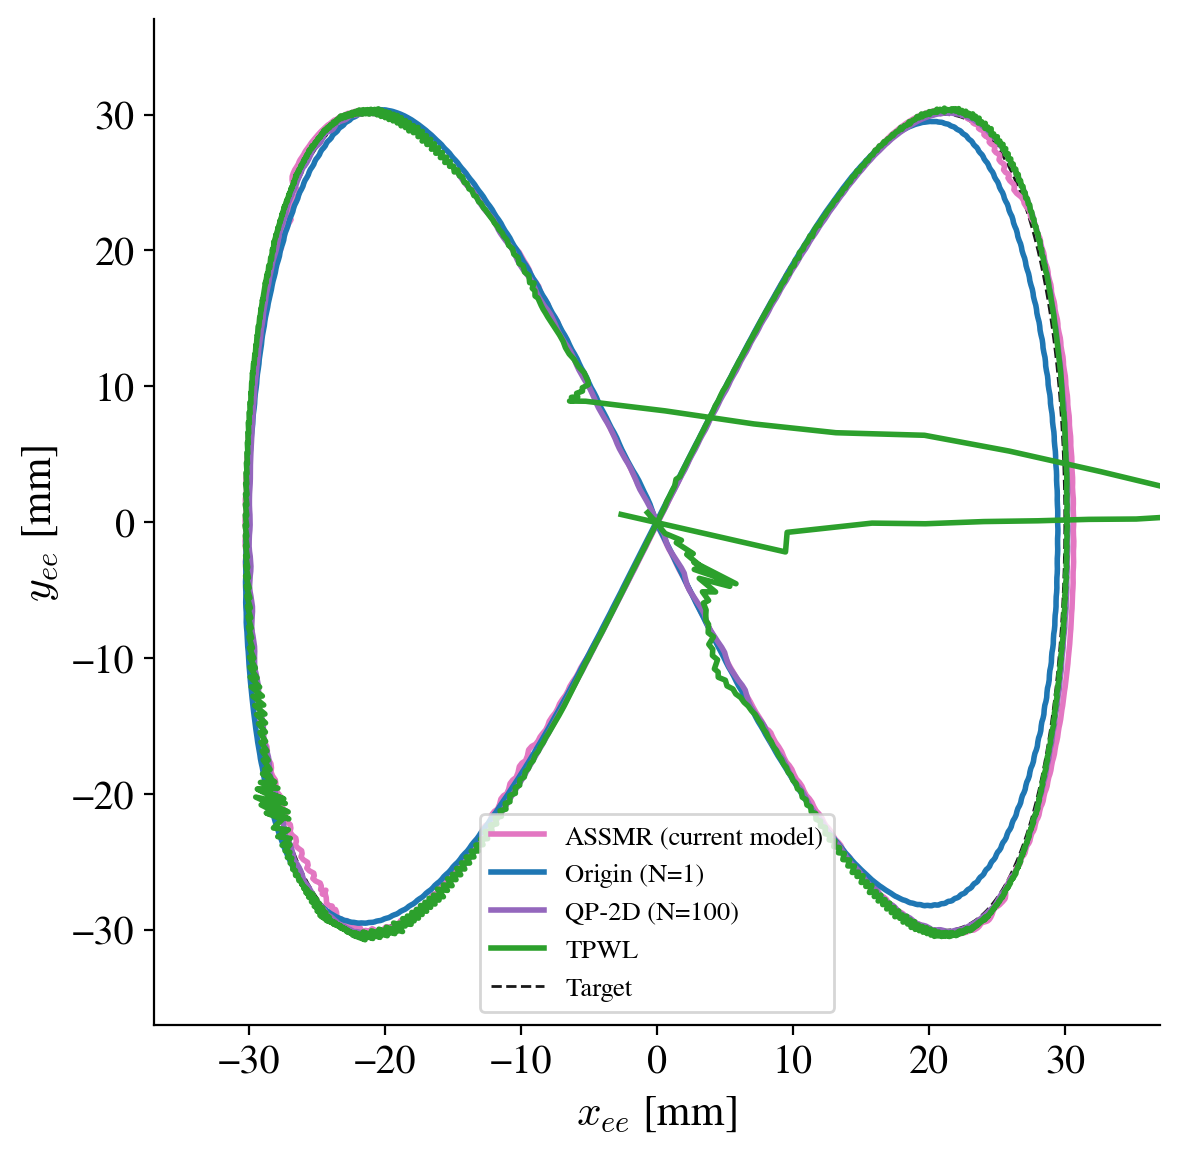
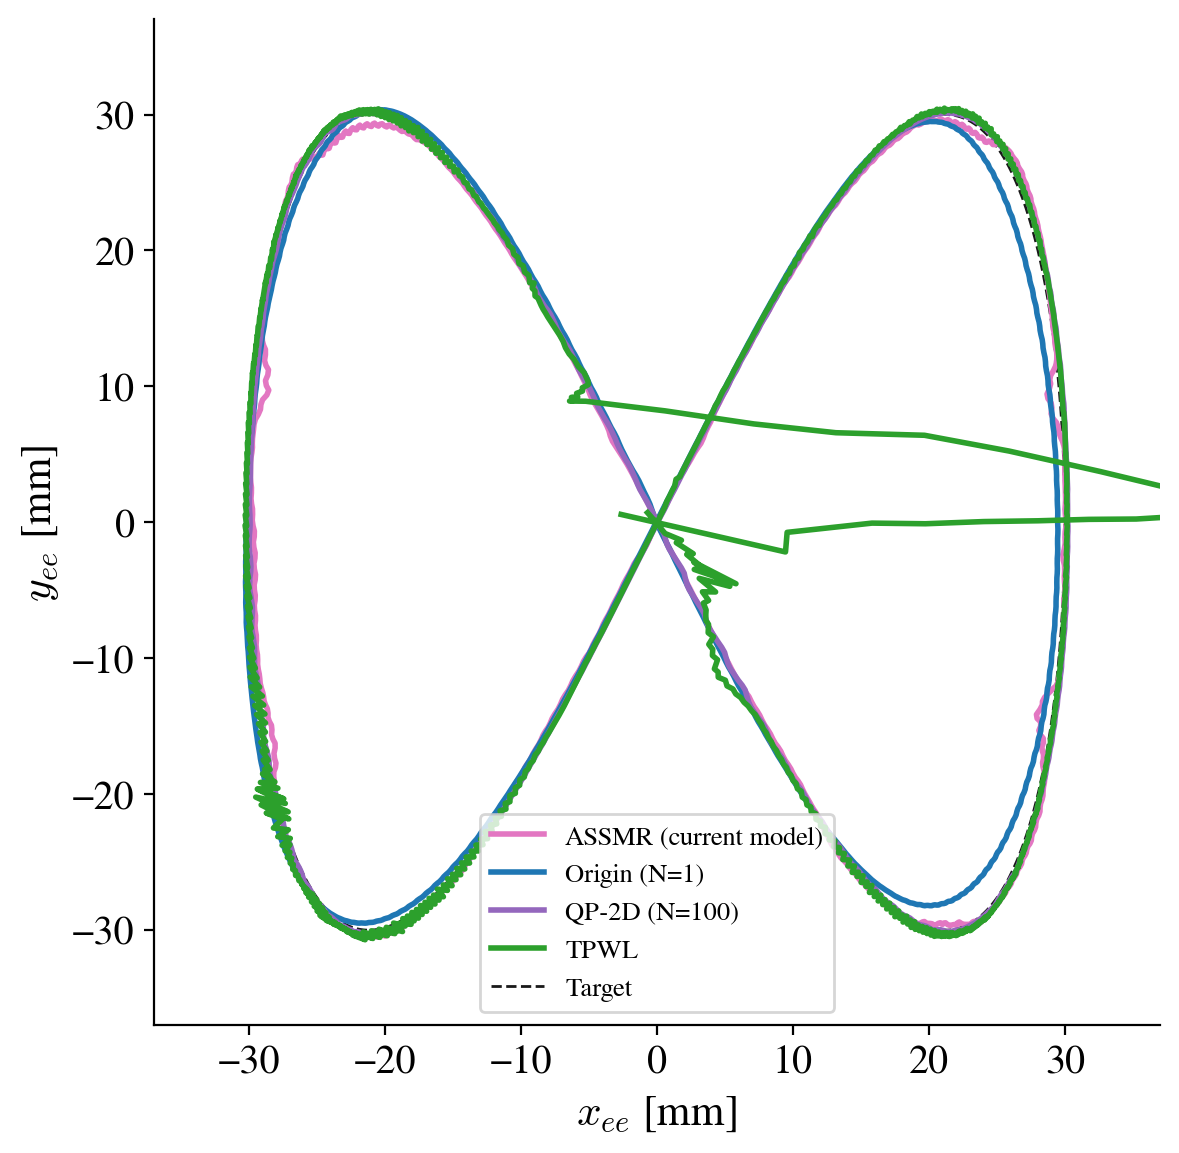
fixed observer in new closed-loop scheme

diff --git a/sofacontrol/SSM/adiabatic_ssm.py b/sofacontrol/SSM/adiabatic_ssm.py
@@ -11,7 +11,7 @@ import pickle
 from .interpolators import InterpolatorFactory
 
 
-INTERPOLATION_METHOD = "nn" # "natural_neighbor" # "linear", "ct", "nn", "tps", "rbf", "idw", "krg", "qp"
+INTERPOLATION_METHOD = "qp" # "natural_neighbor" # "linear", "ct", "nn", "tps", "rbf", "idw", "krg", "qp"
 ORIGIN_IDX = 0
 
 DISCR_DICT = {'fe': 'forward Euler', 'be': 'implicit Euler', 'bil': 'bilinear transform', 'zoh': 'zero-order hold'}
@@ -143,8 +143,9 @@ class AdiabaticSSM:
         :yf: boolean
         """
         W = self.interpolator.transform(x[0, self.interp_slice], "w_coeff")
-        # y_bar = np.tile(self.interpolator.transform(x[0, self.interp_slice], "q_bar"), 5)
-        return self.W_map(W, x.T).T + self.y_ref
+        x_bar = self.V[0].T @ np.tile(self.interpolator.transform(x[0, self.interp_slice], "q_bar"), 5)
+        y_bar = np.tile(self.interpolator.transform(x[0, self.interp_slice], "q_bar"), 5)
+        return self.W_map(W, x.T, x_bar, y_bar).T + self.y_ref
 
 
     def x_to_zy(self, x):
@@ -154,8 +155,9 @@ class AdiabaticSSM:
         :y: boolean
         """
         W = self.interpolator.transform(x[0, self.interp_slice], "w_coeff")
-        # y_bar = np.tile(self.interpolator.transform(x[0, self.interp_slice], "q_bar"), 5)
-        return self.W_map(W, x.T)
+        x_bar = self.V[0].T @ np.tile(self.interpolator.transform(x[0, self.interp_slice], "q_bar"), 5)
+        y_bar = np.tile(self.interpolator.transform(x[0, self.interp_slice], "q_bar"), 5)
+        return self.W_map(W, x.T, x_bar, y_bar)
 
     def get_sim_params(self):
         return {'discr_method': self.discr_method}
@@ -205,8 +207,8 @@ class AdiabaticSSM:
         xdot = jnp.dot(R, jnp.asarray(self.rom_phi(*x - x_bar))) + jnp.dot(B, jnp.asarray(self.control_phi(*(u - u_bar))))
         return xdot
 
-    def reduced_to_output(self, W, x):
-        output = jnp.dot(jnp.asarray(self.C), jnp.dot(jnp.asarray(W), jnp.asarray(self.ssm_map_phi(*(x)))))
+    def reduced_to_output(self, W, x, x_bar, y_bar):
+        output = jnp.dot(jnp.asarray(self.C), (jnp.dot(jnp.asarray(W), jnp.asarray(self.ssm_map_phi(*(x.T - x_bar).T))).T + y_bar).T)
         return output
 
     # @partial(jax.jit, static_argnums=(0,))
@@ -296,9 +298,11 @@ class AdiabaticSSMDynamics(AdiabaticSSM):
     @partial(jax.jit, static_argnums=(0,))
     def get_observer_jacobians(self,
                             x: jnp.ndarray,
-                            W: jnp.ndarray):
-        H = jax.jacobian(self.W_map, 1)(W, x)
-        c_res = self.W_map(W, x) - jnp.dot(H, x)
+                            W: jnp.ndarray,
+                            x_bar: jnp.ndarray,
+                            y_bar: jnp.ndarray):
+        H = jax.jacobian(self.W_map, 1)(W, x, x_bar, y_bar)
+        c_res = self.W_map(W, x, x_bar, y_bar) - jnp.dot(H, x)
         return H, c_res
 
     # def get_observer_jacobians_nojit(self,
@@ -344,8 +348,9 @@ class AdiabaticSSMDynamics(AdiabaticSSM):
 
     def update_observer_state(self, x, dt=None, u=None):
         W = self.interpolator.transform(x[self.interp_slice], "w_coeff")
-        # y_bar = np.tile(self.interpolator.transform(x[self.interp_slice], "q_bar"), 5)
-        H, c = self.get_observer_jacobians(x, W) # self.W_current, self.y_bar_current)
+        x_bar = self.V[0].T @ np.tile(self.interpolator.transform(x[self.interp_slice], "q_bar"), 5)
+        y_bar = np.tile(self.interpolator.transform(x[self.interp_slice], "q_bar"), 5)
+        H, c = self.get_observer_jacobians(x, W, x_bar, y_bar) # self.W_current, self.y_bar_current)
         return np.squeeze(jnp.dot(H, x)) + np.squeeze(c)
 
     def discretize_dynamics(self, A_c, B_c, d_c, dt):

diff --git a/examples/trunk/trunk_adiabaticSSM.py b/examples/trunk/trunk_adiabaticSSM.py
@@ -24,7 +24,7 @@ DEFAULT_OUTPUT_NODES = [51, 22, 37]
 TIP_NODE = 51
 N_NODES = 709
 # Set directory for SSM Models
-PATH_TO_MODEL = "/media/jonas/Backup Plus/jonas_soft_robot_data/trunk_adiabatic_10ms_N=9" # 100_sparsity=0.95" # 33_handcrafted" # 147" # 
+PATH_TO_MODEL = "/media/jonas/Backup Plus/jonas_soft_robot_data/trunk_adiabatic_10ms_N=100_sparsity=0.95" # 33_handcrafted" # 147" # 
 MODEL_NAMES = [name for name in sorted(listdir(PATH_TO_MODEL)) if isdir(join(PATH_TO_MODEL, name))]
 # if exists(join(PATH_TO_MODEL, "use_models.pkl")):
 #     with open(join(PATH_TO_MODEL, "use_models.pkl"), "rb") as f:
@@ -32,7 +32,7 @@ MODEL_NAMES = [name for name in sorted(listdir(PATH_TO_MODEL)) if isdir(join(PAT
 # else:
 #     raise FileNotFoundError("No use_models.pkl file found in model directory")
 # USE_MODELS = [int(i) for i in []] # ['096', '077', '098', '053', '032', '018', '064', '082', '031', '061']]
-USE_MODELS = [0, 1, 2, 3, 4] # list(range(len(MODEL_NAMES)))
+USE_MODELS = list(range(len(MODEL_NAMES)))
 # USE_MODELS = [0, 52, 40, 17, 92, 28, 74, 15, 77, 83, 82, 88, 11, 93, 98, 84, 56, 62, 21, 16, 31, 38, 68, 14, 23, 67, 18, 75, 46, 81, 34, 44, 37, 99, 85, 95, 35, 64, 9, 79, 90, 59, 50, 97, 51, 20, 27, 32, 25, 49, 39, 43, 55, 29]
 MODEL_NAMES = [MODEL_NAMES[i] for i in USE_MODELS]
 print("Using models: ", MODEL_NAMES)
@@ -96,37 +96,37 @@ cost = QuadraticCost()
 Qz = np.zeros((model.output_dim, model.output_dim))
 Qz[0, 0] = 100.  # corresponding to x position of end effector
 Qz[1, 1] = 100.  # corresponding to y position of end effector
-Qz[2, 2] = 0.  # corresponding to z position of end effector
+Qz[2, 2] = 1000.  # corresponding to z position of end effector
 R = 0.0001 * np.eye(model.input_dim)
 cost.R = R
 cost.Q = model.H.T @ Qz @ model.H
 
 # Define target trajectory for optimization
 # === figure8 (2D) ===
-M = 1
-T = 10
-N = 1000
-radius = 30.
-tf = np.linspace(0, M * T, M * N + 1)
-th = np.linspace(0, M * 2 * np.pi, M * N + 1) # + np.pi
-zf_target = np.tile(np.hstack((z_eq_point, np.zeros(model.output_dim - len(z_eq_point)))), (M * N + 1, 1))
-# zf_target = np.zeros((M * N, model.output_dim))
-zf_target[:, 0] += -radius * np.sin(th)
-zf_target[:, 1] += radius * np.sin(2 * th)
-# zf_target[:, 2] += -np.ones(len(t)) * 10
-
-# === circle with constant z (3D) ===
 # M = 1
 # T = 10
 # N = 1000
-# radius = 20.
+# radius = 30.
 # tf = np.linspace(0, M * T, M * N + 1)
-# th = np.linspace(0, M * 2 * np.pi, M * N + 1) # + 3 * np.pi / 2
+# th = np.linspace(0, M * 2 * np.pi, M * N + 1) # + np.pi
 # zf_target = np.tile(np.hstack((z_eq_point, np.zeros(model.output_dim - len(z_eq_point)))), (M * N + 1, 1))
 # # zf_target = np.zeros((M * N, model.output_dim))
-# zf_target[:, 0] += radius * np.cos(th)
-# zf_target[:, 1] += radius * np.sin(th)
-# zf_target[:, 2] += -np.ones(len(tf)) * 10
+# zf_target[:, 0] += -radius * np.sin(th)
+# zf_target[:, 1] += radius * np.sin(2 * th)
+# # zf_target[:, 2] += -np.ones(len(t)) * 10
+
+# === circle with constant z (3D) ===
+M = 1
+T = 10
+N = 1000
+radius = 20.
+tf = np.linspace(0, M * T, M * N + 1)
+th = np.linspace(0, M * 2 * np.pi, M * N + 1) # + 3 * np.pi / 2
+zf_target = np.tile(np.hstack((z_eq_point, np.zeros(model.output_dim - len(z_eq_point)))), (M * N + 1, 1))
+# zf_target = np.zeros((M * N, model.output_dim))
+zf_target[:, 0] += radius * np.cos(th)
+zf_target[:, 1] += radius * np.sin(th)
+zf_target[:, 2] += -np.ones(len(tf)) * 10
 
 model.z_target = model.zfyf_to_zy(zf=zf_target)
 

diff --git a/sofacontrol/scp/models/ssm.py b/sofacontrol/scp/models/ssm.py
@@ -84,7 +84,9 @@ class SSMGuSTO(TemplateModel):
         """
         if hasattr(self.dyn_sys, "adiabatic") and self.dyn_sys.adiabatic:
             W = self.dyn_sys.interpolator.transform(x[self.dyn_sys.interp_slice], "w_coeff")
-            return self.dyn_sys.get_observer_jacobians(x, W)
+            x_bar = self.dyn_sys.V[0].T @ np.tile(self.dyn_sys.interpolator.transform(x[self.dyn_sys.interp_slice], "q_bar"), 5)
+            y_bar = np.tile(self.dyn_sys.interpolator.transform(x[self.dyn_sys.interp_slice], "q_bar"), 5)
+            return self.dyn_sys.get_observer_jacobians(x, W, x_bar, y_bar)
         else:
             return self.dyn_sys.get_observer_jacobians(x)
 

diff --git a/sofacontrol/SSM/interpolators.py b/sofacontrol/SSM/interpolators.py
@@ -194,7 +194,7 @@ class RBFInterpolator(Interpolator):
 
 
 class IDWInterpolator(Interpolator):
-    def __init__(self, q_eq, coeff_dict, p=8, eps=0.1):
+    def __init__(self, q_eq, coeff_dict, p=.5, eps=0.1):
         self.p = p
         self.eps = eps
         super(IDWInterpolator, self).__init__(q_eq, coeff_dict)
